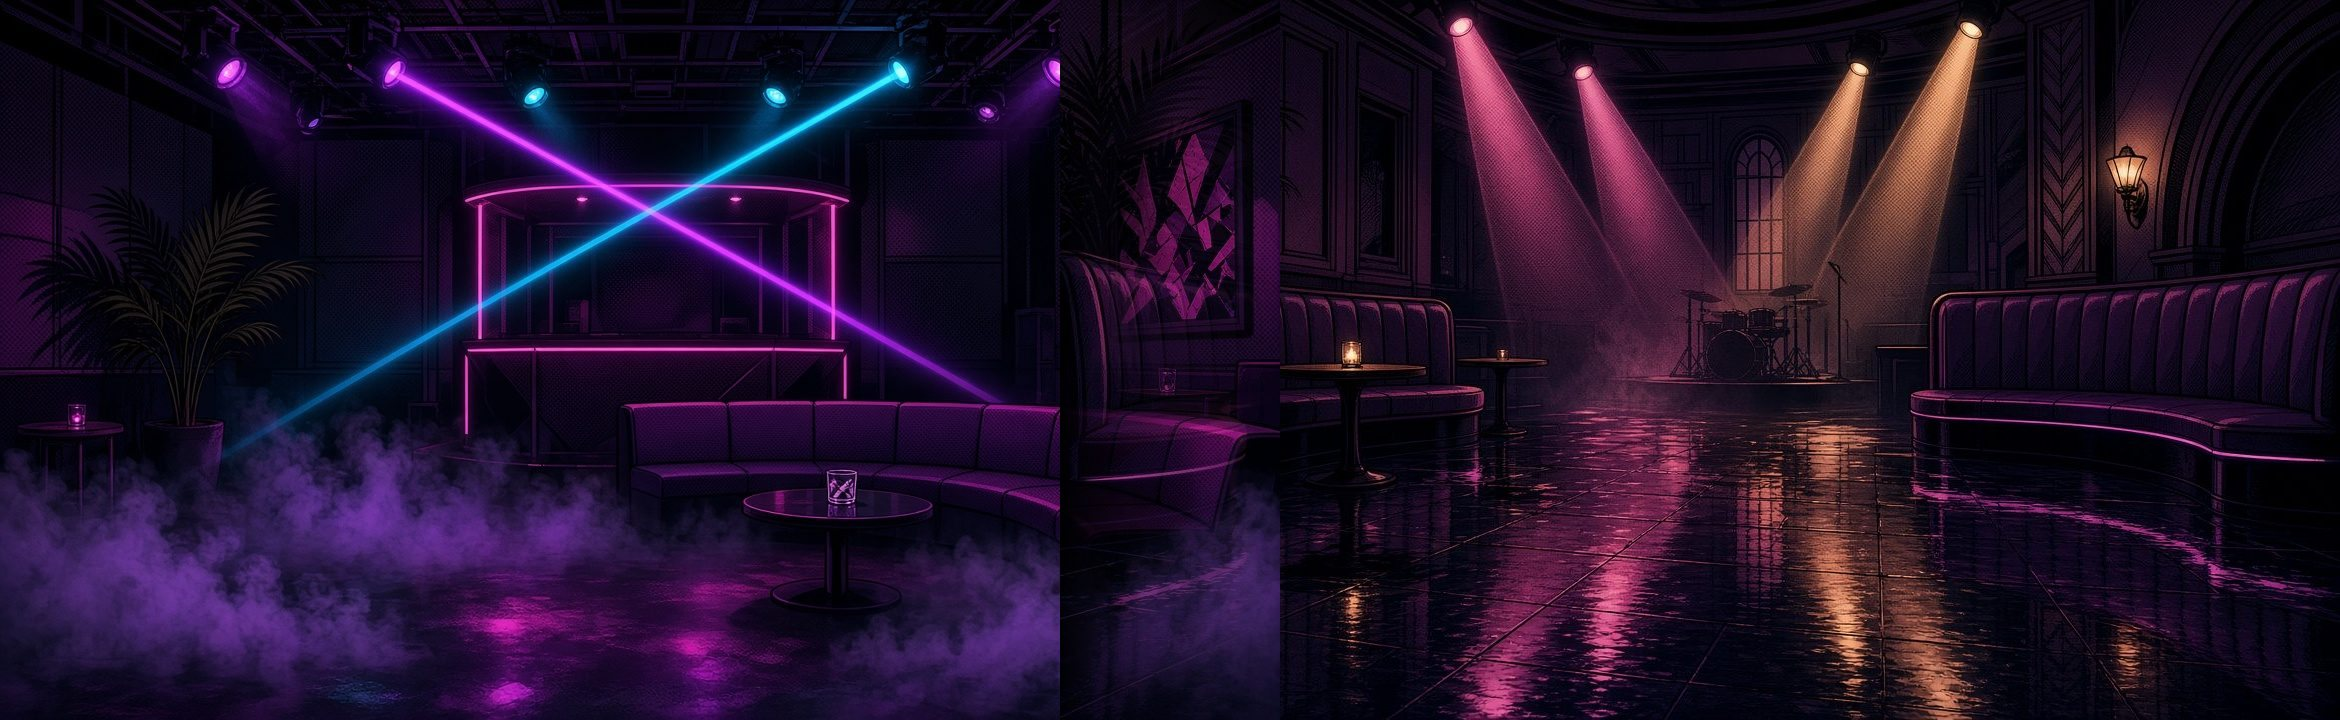
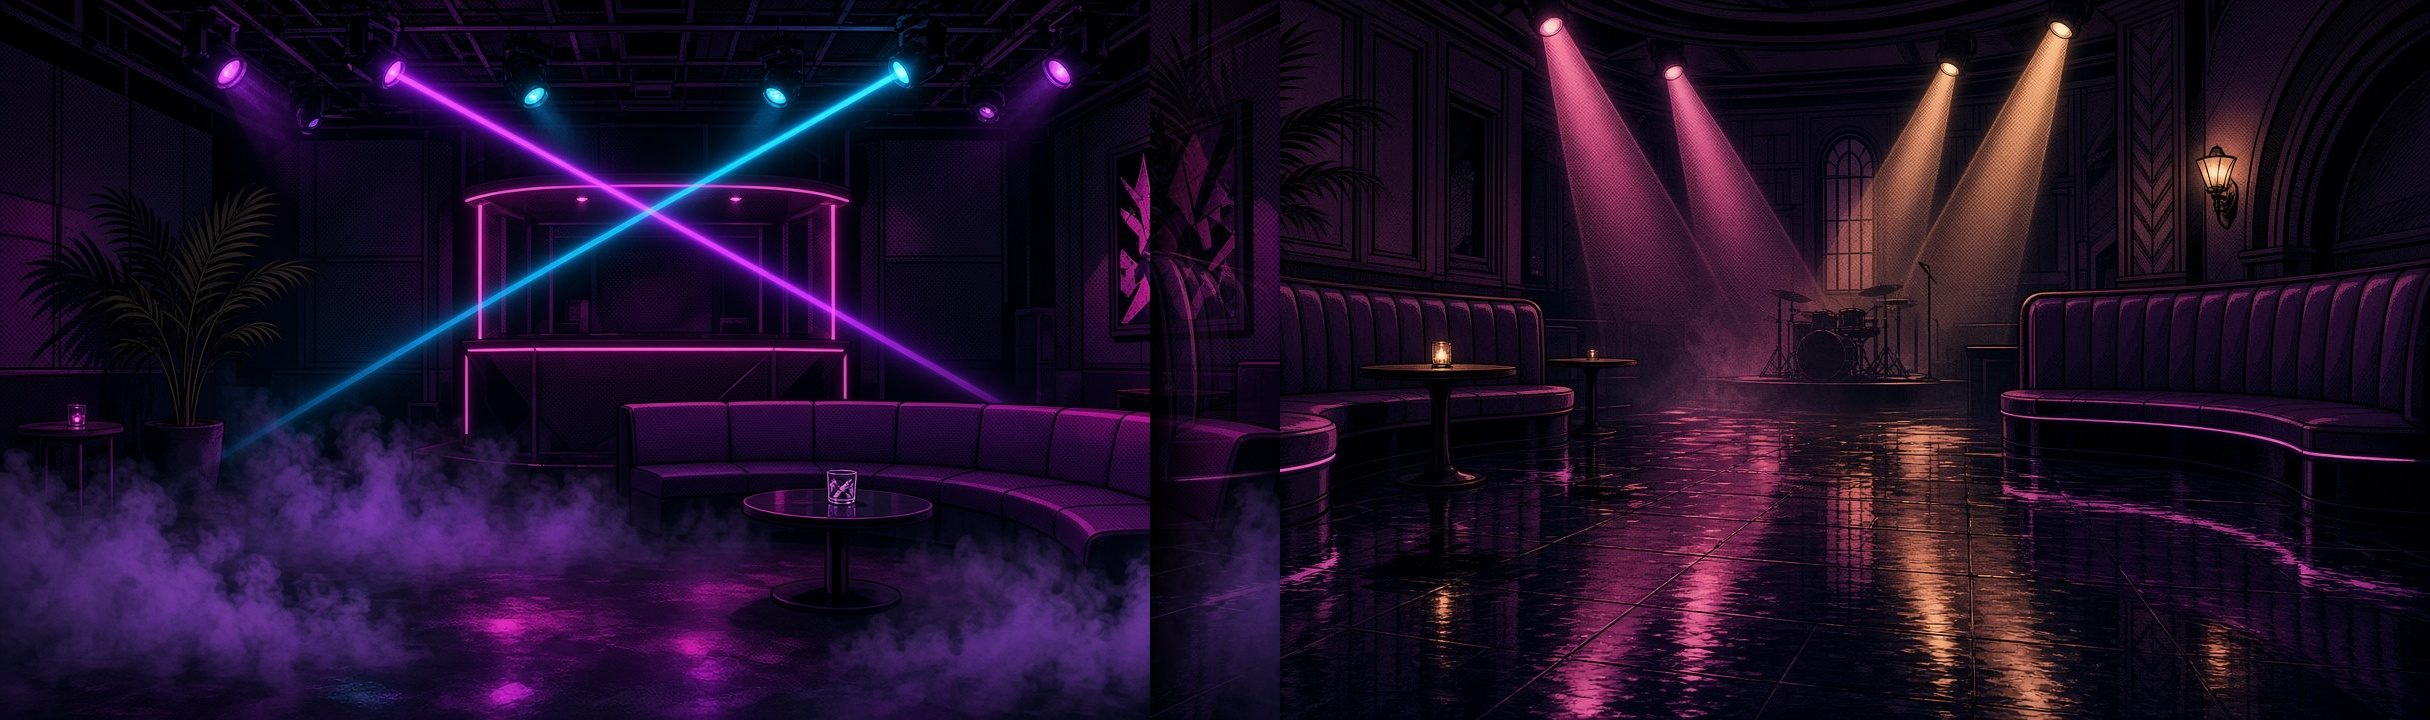
Nightclub gauntlet c2: narrow rooms cover the screen, venue name throughout, arrive a step into rooms, slimmer hatched seam columns (re-stitched shorter seams), backlit glow band behind the crowd, no giant passers-by in small rooms, keys spaced apart

diff --git a/src/nightclub/stage.js b/src/nightclub/stage.js
@@ -259,7 +259,7 @@ export class ClubStage {
     this.back = spec ? spec.back * H : FLOOR - 40;  // the back wall's foot (the far crowd stands here)
     this.art = null;
     if (spec) { const img = new Image(); img.onload = () => { this.art = composeArt(img, room, byId, spec); }; img.src = PLATE.dir + spec.src; }
-    this.rim = lighten(this.L.haze, this.spec ? 0.2 : 0.55);
+    this.rim = lighten(this.L.haze, this.spec ? 0.42 : 0.55);
     this.atlas = crowdAtlas(this.rim);
     const W = room.w, dens = this.R.crowd / 1000;
     const clear = (px) => room.doors.every((d) => Math.abs(d.x - px) > 150);
@@ -274,7 +274,7 @@ export class ClubStage {
       else this.mid.push({ x: px, y: FLOOR + rng.range(0, 40), t: rng.int(0, CROWD_TYPES - 1), o: rng.next(), f: rng.chance(0.5), s: rng.range(0.9, 1.05) });
     }
     this.mid.sort((a, b) => a.y - b.y);
-    for (let i = 0, n = Math.round(W * dens * 0.22); i < n; i++) this.near.push({ x: rng.range(0, W * 1.3), y: H + rng.range(60, 160), t: rng.int(0, CROWD_TYPES - 1), o: rng.next(), f: rng.chance(0.5), s: rng.range(1.7, 2.0) });
+    for (let i = 0, n = W <= 2048 || this.R.crowd <= 2 ? 0 : Math.round(W * dens * 0.22); i < n; i++) this.near.push({ x: rng.range(0, W * 1.3), y: H + rng.range(60, 160), t: rng.int(0, CROWD_TYPES - 1), o: rng.next(), f: rng.chance(0.5), s: rng.range(1.7, 2.0) });
     // the live rig: moving heads along the truss, laser emitters in beam rooms
     const cols = [this.L.accent, lighten(this.L.haze, 0.5), '#ffffff'];
     this.sprites = cols.map(beamSprite);
@@ -292,10 +292,11 @@ export class ClubStage {
   drawBack(ctx, view, t, heroX = null) {
     const { k, w, h } = view, beat = (t * BPM) / 60;
     if (this.atlas.version !== dancersVersion()) this.atlas = crowdAtlas(this.rim); // the baked sheet arrived
+    ctx.save(); ctx.translate(0, -(view.oy || 0));
     // plate
     const vw = w / k;
     const src = this.art || this.plate, sc = src.width / this.room.w;
-    ctx.drawImage(src, Math.max(0, view.x0 * sc), 0, Math.min(src.width, vw * sc), src.height, Math.max(0, -view.x0) * k, 0, Math.min(vw, this.room.w) * k, h);
+    ctx.drawImage(src, Math.max(0, view.x0 * sc), 0, Math.min(src.width, vw * sc), src.height, Math.max(0, -view.x0) * k, 0, Math.min(vw, this.room.w) * k, H * k);
     // far crowd, fogged into the haze
     ctx.globalAlpha = 0.75;
     for (const d of this.far) {
@@ -331,6 +332,11 @@ export class ClubStage {
       ctx.stroke();
     }
     ctx.globalAlpha = 1; ctx.globalCompositeOperation = 'source-over';
+    ctx.globalCompositeOperation = 'lighter';
+    const band = ctx.createLinearGradient(0, (this.lane - 330) * k, 0, this.lane * k);
+    band.addColorStop(0, rgba(this.L.haze, 0)); band.addColorStop(0.6, rgba(this.L.haze, this.spec ? 0.2 : 0.12)); band.addColorStop(1, rgba(this.L.haze, 0));
+    ctx.fillStyle = band; ctx.fillRect(0, (this.lane - 330) * k, w, 330 * k);
+    ctx.globalCompositeOperation = 'source-over';
     // the DJs behind the decks (main floor), cut off at the booth's front
     if (this.room.kind === 'main' && !this.spec) {
       const bx = this.room.w - 760;
@@ -347,13 +353,15 @@ export class ClubStage {
       if (x < -120 || x > w + 120) continue;
       drawDancer(ctx, this.atlas, d.t, t, d.o, x, d.y * k, 300 * d.s * k, d.f);
     }
+    ctx.restore();
   }
 
   drawFront(ctx, view, t, dt) {
     const { k, w, h } = view, beat = (t * BPM) / 60;
     // ink pillars in the foreground hide the joins between stitched bays
+    ctx.save(); ctx.translate(0, -(view.oy || 0));
     if (this.spec) for (const q of this.spec.seams) {
-      const x = this.sx(view, q), pw = 300 * k;
+      const x = this.sx(view, q), pw = 210 * k, h = H * k;
       if (x < -pw || x > w + pw) continue;
       if (!this.colGrad || this.colGrad.pw !== pw) {
         const g = ctx.createLinearGradient(-pw / 2, 0, pw / 2, 0);
@@ -362,6 +370,9 @@ export class ClubStage {
       }
       ctx.save(); ctx.translate(x, 0);
       ctx.fillStyle = this.colGrad.g; ctx.fillRect(-pw / 2, 0, pw, h);
+      ctx.strokeStyle = 'rgba(0,0,0,0.55)'; ctx.lineWidth = Math.max(1, 1.5 * k); ctx.beginPath();
+      for (let i = 0; i < 6; i++) { const hx = -pw / 2 + pw * (0.5 + i * 0.08); ctx.moveTo(hx, 0); ctx.lineTo(hx, h); }
+      ctx.stroke();
       ctx.fillStyle = '#05040a'; for (const cy of [0.12, 0.62]) ctx.fillRect(-pw / 2 - 6 * k, h * cy, pw + 12 * k, 26 * k);
       ctx.fillStyle = rgba(this.L.haze, 0.5); for (const cy of [0.12, 0.62]) ctx.fillRect(-pw / 2 - 6 * k, h * cy, pw + 12 * k, 3 * k);
       ctx.globalCompositeOperation = 'lighter';
@@ -376,6 +387,7 @@ export class ClubStage {
       if (x < -300 || x > w + 300) continue;
       drawDancer(ctx, this.atlas, d.t, t, d.o, x, d.y * k, 300 * d.s * k, d.f);
     }
+    ctx.restore();
     // drifting haze
     ctx.globalCompositeOperation = 'lighter';
     ctx.globalAlpha = this.rig.haze;

diff --git a/src/nightclub/nightclub.js b/src/nightclub/nightclub.js
@@ -28,7 +28,7 @@ export class Nightclub {
     this.zone = zone; this.done = false; this.t = 0;
     loadDancers();
     const seed = +(new URLSearchParams(location.search).get('clubseed') || 0);
-    this.club = buildClub(seed ? { seed, size: 'medium', name: zone.venue } : { flagship: true });
+    this.club = buildClub(seed ? { seed, size: 'medium', name: zone.venue } : { flagship: true, name: zone.venue });
     this.byId = Object.fromEntries(this.club.rooms.map((r) => [r.id, r]));
     this.items = new Set();
     this.taken = new Set();     // keys picked up / spots used, by "room:x"
@@ -53,12 +53,14 @@ export class Nightclub {
     this.room = room;
     this.stage = new ClubStage(room, this.byId, this.club.seed);
     const d = room.doors.find((e) => e.to === from) || room.doors[0];
-    this.p.x = d.x; this.p.facing = d.x < room.w / 2 ? 1 : -1;
-    this.cam = d.x;
+    this.p.facing = d.x < room.w / 2 ? 1 : -1;
+    this.p.x = !from && room.kind === 'entrance' ? room.w * 0.45 : clamp(d.x + this.p.facing * 220, 150, room.w - 150);
+    this.cam = this.p.x;
     $('hud-title').textContent = `${this.club.name} · ${ROOMS[room.kind].name}`;
   }
 
-  get k() { return this.g.h / PLATE.h; }
+  get k() { return Math.max(this.g.h / PLATE.h, this.room ? this.g.w / this.room.w : 0); }
+  get oy() { const k = this.k; return clamp(this.stage.lane * k - this.g.h * 0.9, 0, PLATE.h * k - this.g.h); }
   get viewW() { return this.g.w / this.k; }
 
   /** What's in reach: a door, a key on the floor, or a spot (drink, the DJ view). */
@@ -232,7 +234,7 @@ export class Nightclub {
     const lit = this.litCache?.lit || mk(), rim = this.litCache?.rim || mk();
     const a = lit.getContext('2d'), b = rim.getContext('2d');
     a.globalCompositeOperation = 'source-over'; a.clearRect(0, 0, lit.width, lit.height); a.drawImage(img, 0, 0);
-    a.globalCompositeOperation = 'source-atop'; a.fillStyle = L.haze; a.globalAlpha = 0.26; a.fillRect(0, 0, lit.width, lit.height); a.globalAlpha = 1;
+    a.globalCompositeOperation = 'source-atop'; a.fillStyle = L.haze; a.globalAlpha = 0.36; a.fillRect(0, 0, lit.width, lit.height); a.globalAlpha = 1;
     b.globalCompositeOperation = 'source-over'; b.clearRect(0, 0, rim.width, rim.height); b.drawImage(img, 0, 0);
     b.globalCompositeOperation = 'source-in'; b.fillStyle = L.accent; b.fillRect(0, 0, rim.width, rim.height);
     this.litKey = key; this.litCache = { lit, rim };
@@ -262,7 +264,7 @@ export class Nightclub {
     const g = this.g, w = g.w, h = g.h, st = g.state;
     if (!this.stage) return;
     ctx.fillStyle = '#000'; ctx.fillRect(0, 0, w, h);
-    let view = { k: this.k, x0: this.cam - this.viewW / 2, w, h };
+    let view = { k: this.k, x0: this.cam - this.viewW / 2, w, h, oy: this.oy };
     if (this.view === 'set') {
       // the DJ booth set piece (stand-in for the pre-rendered loop): zoomed in on the decks
       const z = 1.5, k = this.k * z, vw = w / k;
@@ -274,8 +276,10 @@ export class Nightclub {
     const set = this.view === 'set' && (vid || this.setImage());
     if (set) this.stage.drawSetPiece(ctx, set, w, h, this.t, !vid);
     else this.stage.drawBack(ctx, view, this.t, this.view === 'walk' ? this.p.x : null);
-    if (this.view === 'walk') { this.drawMarkers(ctx, view); this.drawHero(ctx, view); }
+    const world = (fn) => { ctx.save(); ctx.translate(0, -(view.oy || 0)); fn(); ctx.restore(); };
+    if (this.view === 'walk') world(() => this.drawHero(ctx, view));
     this.stage.drawFront(ctx, view, this.t, this.dt || 1 / 60);
+    if (this.view === 'walk') world(() => this.drawMarkers(ctx, view)); // labels over the columns
     afterScene(ctx, g.canvas, w, h, st ? st.intox : 0, this.t);
     const dark = this.blackout ? clamp(this.blackout.t < 2.4 ? this.blackout.t / 1.2 : 1 - (this.blackout.t - 2.4) / 1.2, 0, 1) : this.fade.a;
     if (dark > 0) { ctx.fillStyle = `rgba(0,0,0,${dark})`; ctx.fillRect(0, 0, w, h); }

diff --git a/src/nightclub/rooms.js b/src/nightclub/rooms.js
@@ -36,11 +36,11 @@ export const ART = {
   // behind foreground pillars); lane/back = her walk line and the back wall's foot, as a fraction of
   // the height; arches = painted doorways the layout puts its doors on
   plates: {
-    main: { src: 'main.jpg', w: 4836, lane: 0.9, back: 0.66, seams: [1664, 3172], arches: [564, 910, 1220, 2072, 2418, 2727, 3579, 3925, 4235] },
-    corridor: { src: 'corridor.jpg', w: 3328, lane: 0.9, back: 0.66, seams: [1664], arches: [655, 910, 1165, 2163, 2418, 2673] },
-    dark: { src: 'dark.jpg', w: 3328, lane: 0.9, back: 0.64, seams: [1664], arches: [] },
-    bar: { src: 'bar.jpg', w: 3328, lane: 0.9, back: 0.68, seams: [1664], arches: [] },
-    lounge: { src: 'lounge.jpg', w: 3328, lane: 0.9, back: 0.66, seams: [1664], arches: [] },
+    main: { src: 'main.jpg', w: 5092, lane: 0.9, back: 0.66, seams: [1728, 3364], arches: [564, 910, 1220, 2200, 2546, 2855, 3835, 4181, 4491] },
+    corridor: { src: 'corridor.jpg', w: 3456, lane: 0.9, back: 0.66, seams: [1728], arches: [655, 910, 1165, 2291, 2546, 2801] },
+    dark: { src: 'dark.jpg', w: 3456, lane: 0.9, back: 0.64, seams: [1728], arches: [] },
+    bar: { src: 'bar.jpg', w: 3456, lane: 0.9, back: 0.68, seams: [1728], arches: [] },
+    lounge: { src: 'lounge.jpg', w: 3456, lane: 0.9, back: 0.66, seams: [1728], arches: [] },
   },
   setPiece: { main: 'set_main.jpg' },
   setLoop: { main: 'set_main.mp4' }, // the DJ view's video (its own crowd + beams); the still is its poster

diff --git a/src/nightclub/layout.js b/src/nightclub/layout.js
@@ -112,7 +112,7 @@ function placeKeys(rng, rooms) {
     let x = 0;
     for (let tries = 0; tries < 20; tries++) {
       x = rng.range(MARGIN, r.w - MARGIN);
-      if (r.doors.every((d) => Math.abs(d.x - x) > KEY_GAP)) break;
+      if (r.doors.every((d) => Math.abs(d.x - x) > KEY_GAP) && keys.every((q) => q.room !== r.id || Math.abs(q.x - x) > 360)) break; // labels never overlap
     }
     keys.push({ item, room: r.id, x: Math.round(x) });
     held.add(item);

diff --git a/tools/nightclub/stitch.py b/tools/nightclub/stitch.py
@@ -16,7 +16,7 @@ from PIL import Image, ImageOps
 ROOT = os.path.abspath(os.path.join(os.path.dirname(__file__), '..', '..'))
 SRC = os.path.join(ROOT, 'assets', 'nightclub', 'incoming', 'batch1')
 OUT = os.path.join(ROOT, 'assets', 'nightclub', 'plates')
-H, SEAM, PLATE_H = 720, 220, 1024
+H, SEAM, PLATE_H = 720, 130, 1024
 
 # room -> bays (file stem, '~' = mirrored) and the arch centres in each source image (0..1 across)
 ARCH_WALK = [0.31, 0.5, 0.67]
